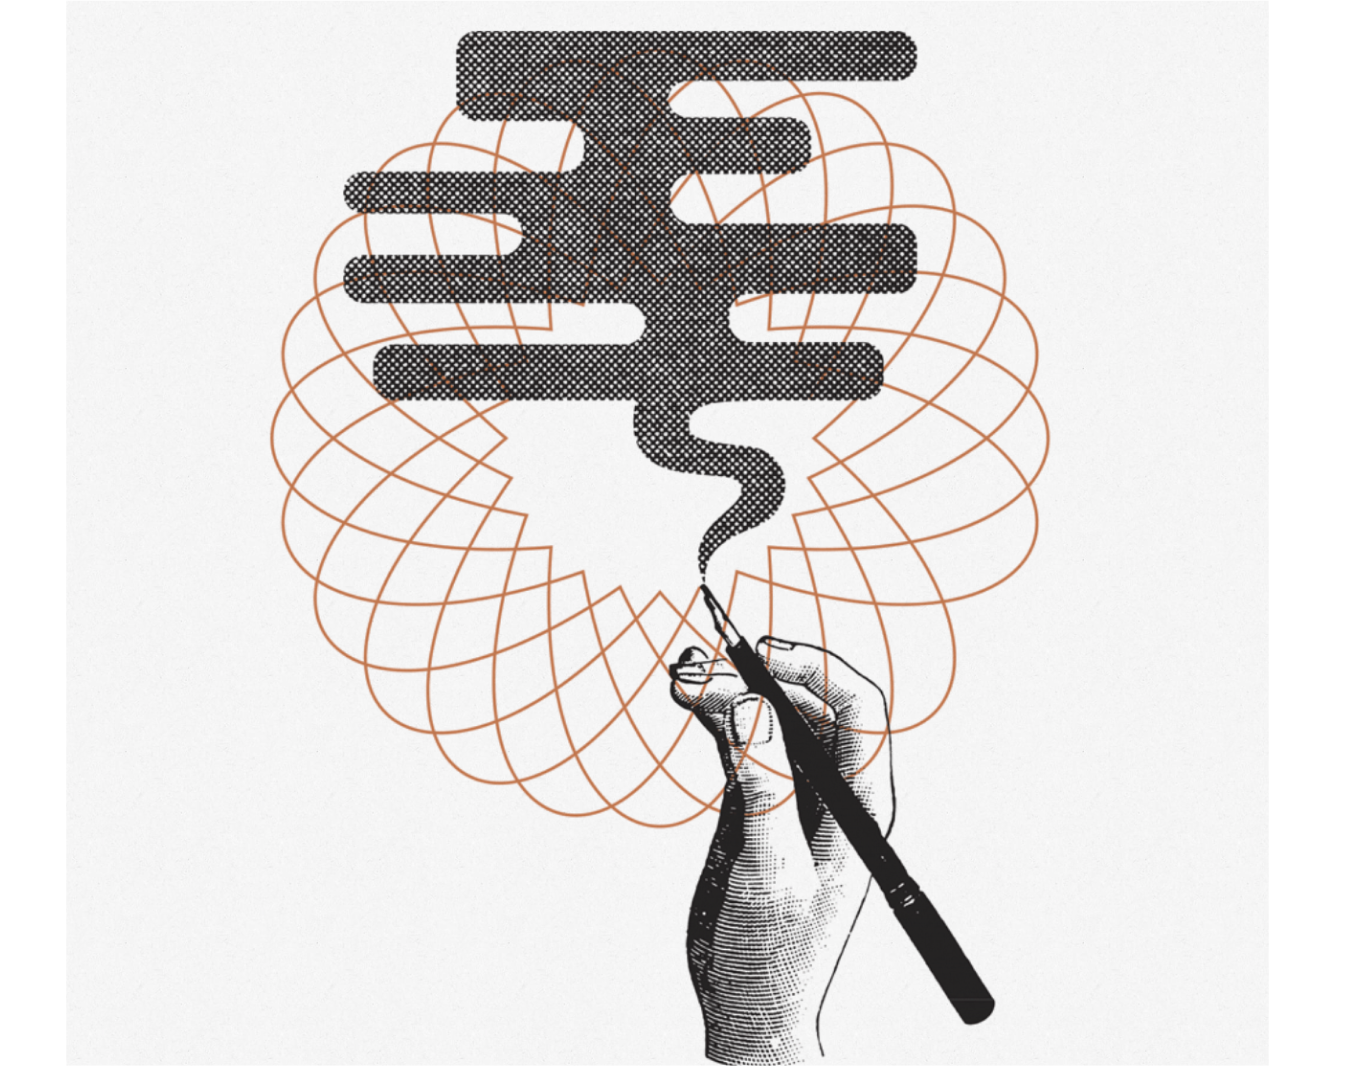
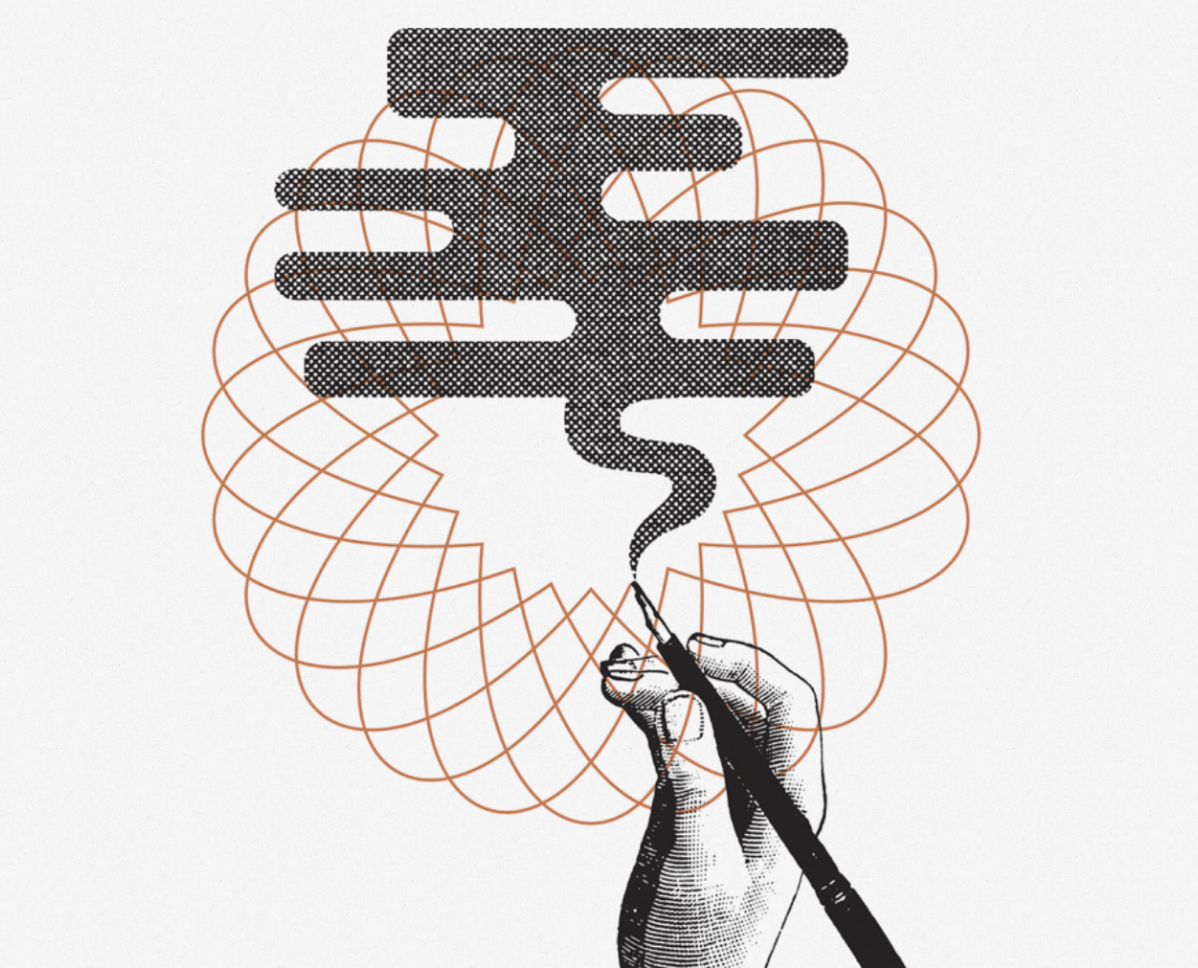
image changes+ nav

diff --git a/index.html b/index.html
@@ -8,16 +8,15 @@
 </head>
 
 <body>
-
   <div class="slider__warpper">
     <div class="flex__container flex--pi flex--active" data-slide="1">
       <div class="flex__item flex__item--left">
         <div class="flex__content">
           <nav class="topnav" id="myTopnav">
-            <a href="#home" class="active">Home</a>
-            <a href="https://www.w3schools.com/howto/howto_js_topnav_responsive.asp">News</a>
-            <a href="#contact">Contact</a>
-            <a href="#about">About</a>
+            <a href="" class="active">Tanvi Walanj</a>
+            <a href="color/index.html">Color</a>
+            <a href="#contact">Type</a>
+            <a href="#about">Shape</a>
           </nav>
           <h1 class="text--big">Graphic <br> Design <br> Essentials</h1>
           <p class="text--normal">Graphic Design Essentials was written and designed by Tanvi Walanj on 6th November, 2022. This website illustrates her personal favourite books/ articles on  the fundamentals of design. Her aim is to inspire graphic designers starting out. </p>
@@ -30,7 +29,7 @@
       <div class="flex__item flex__item--left">
         <div class="flex__content">
           <h1 class="text--big">Color</h1>
-          <p class="text--normal">We are here to take you through the fundamental elements of graphic design. Starting with an exciting journey through “Everyday Color Theory”  <a href="https://www.w3schools.com/howto/howto_js_topnav_responsive.asp">News</a>where you will understand the history of color, how colors are perceived, experienced, how it evokes different sensibilities, how it blends in, stands out, and express itself through the medium of light.</p>
+          <p class="text--normal">We are here to take you through the fundamental elements of graphic design. Starting with an exciting journey through <a href="color/index.html">“Everyday Color Theory”</a>where you will understand the history of color, how colors are perceived, experienced, how it evokes different sensibilities, how it blends in, stands out, and express itself through the medium of light.</p>
         </div>
         <p class="text__background"></p>
       </div>
@@ -41,7 +40,7 @@
       <div class="flex__item flex__item--left">
         <div class="flex__content">
           <h1 class="text--big">Type</h1>
-          <p class="text--normal">Then, moving to typography, where you get exposed to “Thinking with Type” which covers three major sections- Letter, Type and Grid. Here you can go through examples of design practices, type crimes, do’s and don’ts of type.</p>
+          <p class="text--normal">Then, moving to typography, where you get exposed to <a href="color/index.html">“Thinking with Type”</a> which covers three major sections- Letter, Type and Grid. Here you can go through examples of design practices, type crimes, do’s and don’ts of type.</p>
         </div>
         <p class="text__background"></p>
       </div>
@@ -52,7 +51,7 @@
       <div class="flex__item flex__item--left">
         <div class="flex__content">
           <h1 class="text--big">Shape</h1>
-          <p class="text--normal">And finally to the “Shape of Design”, this is an offbeat book on problem solving and creating meaningful design. It instills a sense of enquiry to dive deep into the world of design and focus on the “why” instead of the “how”. It also reminds us that creation is a iterative process and all ideas start young and fragile.</p>
+          <p class="text--normal">And finally to the <a href="color/index.html">“Shape of Design”</a>, this is an offbeat book on problem solving and creating meaningful design. It instills a sense of enquiry to dive deep into the world of design and focus on the “why” instead of the “how”. It also reminds us that creation is a iterative process and all ideas start young and fragile.</p>
         </div>
         <p class="text__background"></p>
       </div>

diff --git a/assets/common.css b/assets/common.css
@@ -59,7 +59,6 @@ html {
 /* Nav bar*/
 .topnav {
   overflow: hidden;
-  background-color: #333;
 }
 
 .topnav a {
@@ -73,12 +72,10 @@ html {
 }
 
 .topnav a:hover {
-  background-color: #ddd;
   color: black;
 }
 
 .topnav a.active {
-  background-color: #04AA6D;
   color: white;
 }
 
@@ -272,7 +269,7 @@ body {
 .text--big {
 	font-weight: 500;
 	line-height: 110px;
-  margin-left: -8px;
+  margin-left: -1px;
   font-family: ClashDisplay-Medium;
   font-style: normal;
   font-size: var(--heading);
@@ -379,7 +376,7 @@ body {
 }
 
 .flex--shape .flex__item--right {
-	background: #BE7852;
+	background: #ffffff;
 }
 
 .flex__content {
@@ -395,10 +392,10 @@ body {
 	position: absolute;
   object-fit: cover;
 	bottom: 20px;
-  margin-bottom: 20%;
+  margin-bottom: 2.9%;
 	left: 50%;
   width: 50%;
-	max-height: 20%;
+	max-height: 70%;
   height: 100%;
 	opacity: 1;
 	transform: translate3d(0,0,0);
